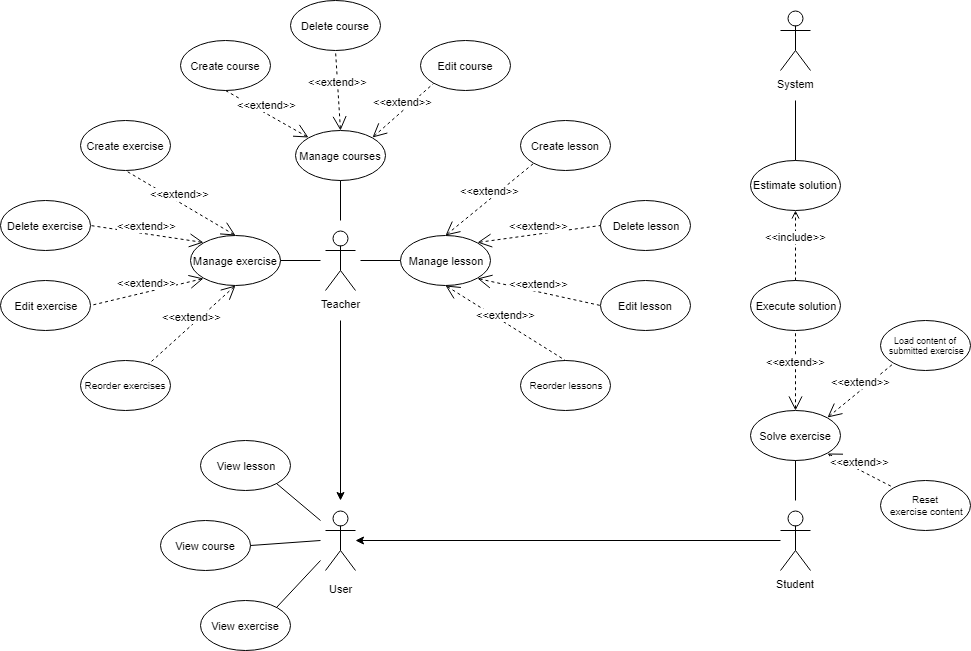
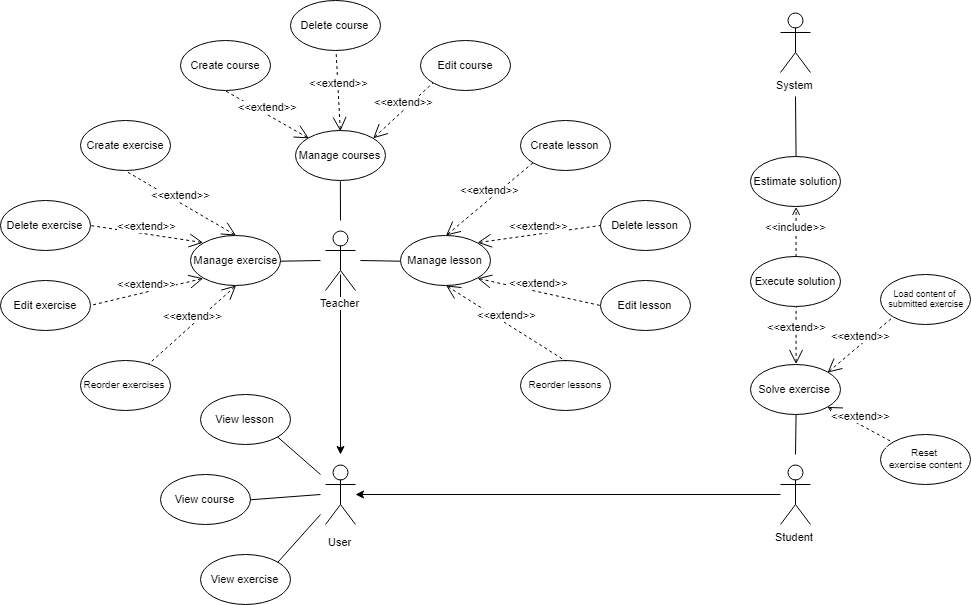
Fix diagrams fitting

diff --git a/content/sources.tex b/content/sources.tex
@@ -22,7 +22,7 @@ As soon as XP is a framework of Agile web development, it includes iterations an
 
 Also, while planning, new functionality can be added only when it is necessarily required. Otherwise, most of the unnecessary functionality would be removed later, so it would slow down the process and require excessive resources. The design should be simple, so the program would be ready for unexpected changes \cite{xp_early}.
 
-The web application, which is the result of the work on the bachelor thesis, is designed to encourage the creation of the projects to solve them in such a way, so students would develop a program in iterations and would receive a feedback. Each iteration has exercises, which lead through the work on the project. A sample project is an example of such a tasks, the exercises a grouped into three iterations. It covers the process of development an adaptive to changes program out of a fragile one, while learning the main XP methods. The sample project is described in detail in Chapter \ref{ch:sample_course}.
+The web application, which is the result of the work on the bachelor thesis, is designed to encourage the creation of the projects to solve them in such a way, so students would develop a program in iterations and would receive a feedback. Each iteration has exercises, which lead through the work on the project. A sample project is an example of such a tasks, the exercises a grouped into three iterations. It covers the process of development an adaptive to changes program out of a fragile one, while learning the main XP methods. The sample project is described in detail in Chapter~\ref{ch:sample_course}.
 
 \subsection{Methods of XP}
 XP is built on the best practices, they are combined in a way that they complement and control each other \cite[Foreword]{xp_explained}. The methods of XP, which were or may be used in the result web application, will be introduced in the following subsections.
@@ -41,7 +41,7 @@ Code refactoring is the process when a software system is changed in such a way 
 
 Refactoring is a common part of an efficient work with legacy code, when there is a need in a design improvement. Such a software change would make its structure more maintainable, while the behaviour would be kept \cite{lc_effectively}.
 
-Also there are cases, when refactoring is not recommended yet. For example, when there is a need to rewrite the whole code from the beginning instead. It may happen, when the code works mostly incorrectly. It is also recommended to avoid refactoring, when the deadline is close, because refactoring may remain unfinished. It would lead to a raise in cost of maintenance as well as the code, which was not reafactored at all \cite[Preface]{ref_debt}.
+Also there are cases, when refactoring is not recommended yet. For example, when there is a need to rewrite the whole code from the beginning instead. It may happen, when the code works mostly incorrectly. It is also recommended to avoid refactoring, when the deadline is close, because refactoring may remain unfinished. It would lead to a raise in cost of maintenance as well as the code, which was not reafactored at all~\cite[Preface]{ref_debt}.
 
 The web application also would make practising on refactoring possible. Refactoring a legacy code exercises are introduced in the sample project. Since refactoring should not be made when there are many mistakes in the code, the refactoring exercises take place in the third, last iteration. At this moment, after the previous two iterations are completed and passed all the tests, the code would be correct. Each of the numerous exercises is about a single step of the refactoring. Their title and description would have references to the book "Clean Code" by Robert C. Martin \cite{clean_code}. It is one of the mostly recommended books for software development, and for a good reason. The code should maintain correct during and after refactoring, and it can be provided by tests, written by the user and teacher.
 

diff --git a/content/intro.tex b/content/intro.tex
@@ -6,6 +6,6 @@ The agile programming principles were stated 20 years ago by authors of Agile ma
 
 The term `agile' is more associated with project management rather than its development. This approach on management is known for accepting the fact that everything changes, and for tending to adapt to new circumstances, gain from them. Some of the agile development methods are widely used and concerned to be compulsory, the others are mostly taken as extreme and experimental. But all of them make development process efficient, deliberate and responsible. The benefits of these methods are more obvious when it is time to bring changes to the code, and there is no need to `edit and pray'.
 
-The world is full of things, which become stronger when something makes them change. They are not only naturally evolved systems, but also artificial. This feature got name `antifragile' and was described by Nassim Taleb, author of the series of books on it \cite{antifragile}.
+The world is full of things, which become stronger when something makes them change. They are not only naturally evolved systems, but also artificial. This feature got name `antifragile' and was described by Nassim Taleb, author of the series of books on it~\cite{antifragile}.
 
 The aim of the Bachelor thesis is to illustrate the point that `agile' is `antifragile' with use of a learning environment. It may be used for acquaintance with the theoretical side of the agile programming methods, and also for creating space to try out the methods and get feedback instantly. This environment is presented in a web application. Concept chapter describes the application on a design level, when Solution chapter focuses on issues of implementation. The application is accompanies with a course, which covers the features suggested by the application and the agile methods. Its content, purpose and used methodologies are presented in Sample course chapter.

diff --git a/content/concept.tex b/content/concept.tex
@@ -146,14 +146,13 @@ This chapter is devoted to specification and concept of the resulting web applic
     \section{Use cases}
     The users of the application are divided into two groups, teachers and students. In fact, the application does not separate these groups, so any user can be an author and a solver. Use case diagram illustrates how these two groups interact with the system.
     
-    \begin{figure}[h]
+    \begin{sidewaysfigure}
     \centerline{
-        \includegraphics[
-        width=0.9\textwidth, width=\linewidth, frame
-        ]{images/use-case.png}}
+        \includegraphics[width=\textwidth]
+        {images/use-case.png}}
     \caption{Use case diagram}
     \label{fig:use-case}
-    \end{figure}
+    \end{sidewaysfigure}
 
     \section{Technical requirements}
     \label{sec:tech-requirements}
